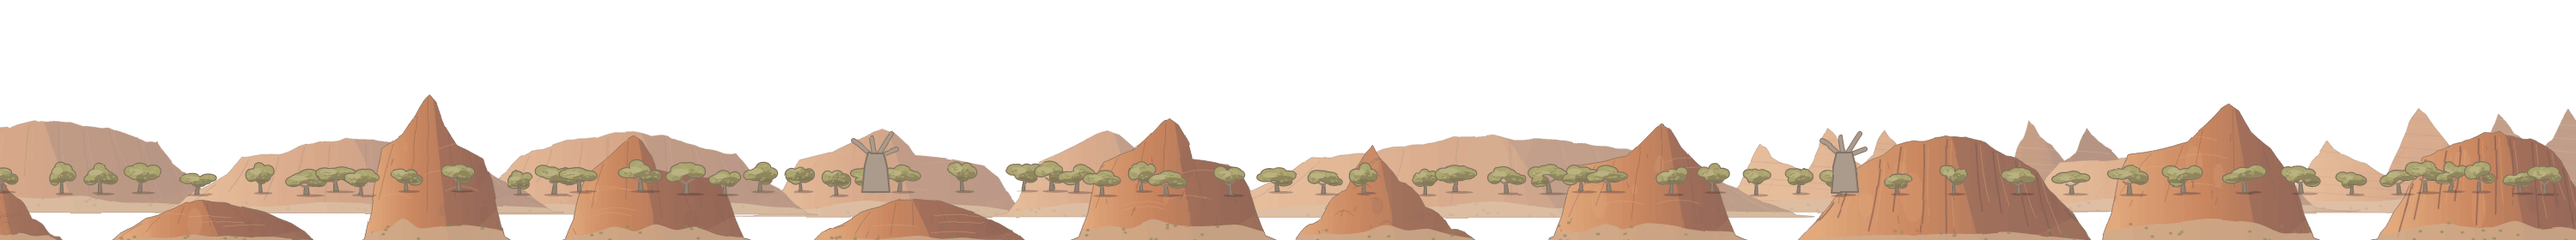
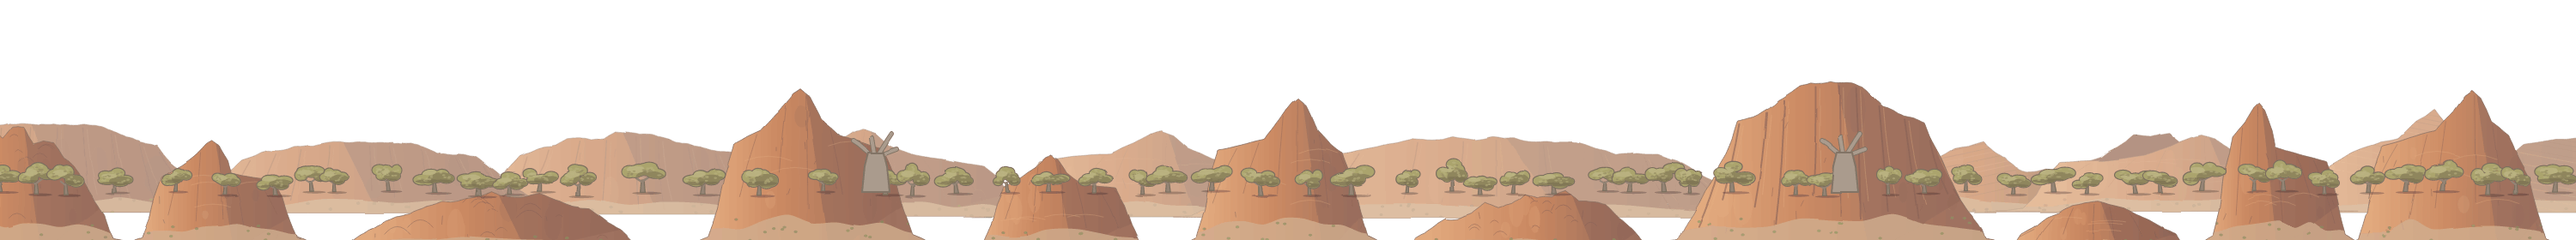
art(scenery): rounded, lopsided koppies and cuesta ridges instead of witch hats
Round 2 of the look review: Karoo koppies are rounded, boulder-strewn dolerite hills with broken,
block-studded skylines and an off-centre crown, lower and wider; strata ridges weather into
cuestas (a long gentle dip slope, a steep stepped scarp) instead of saw-tooth tents; the pointed
cone is now a 'spire' kind, at most one landmark per biome (only Kalahari uses it). Same texture
sizes. D-035.

diff --git a/tools/art/mountains.ts b/tools/art/mountains.ts
@@ -12,7 +12,8 @@
 import { el, g, polyD, r2, smoothD } from './svg';
 import { mix, nextId, shade, type Pen, type Pt, type Rnd } from './scenery';
 
-export type MountainKind = 'inselberg' | 'massif' | 'strata' | 'koppie' | 'boulders' | 'mesa';
+export type MountainKind =
+  'inselberg' | 'massif' | 'strata' | 'koppie' | 'boulders' | 'mesa' | 'spire';
 
 export interface RockColours {
   /** Mid tone of the rock in light. */
@@ -84,22 +85,53 @@ function profile(rnd: Rnd, m: Mountain): Pt[] {
       break;
     }
     case 'strata': {
-      // A saw-toothed ridge: several peaks, the slopes broken into steps.
-      let f = 0.04;
-      add(0.02, 0.15);
-      while (f < 0.92) {
-        const peakH = 0.6 + rnd() * 0.4;
-        add(f + 0.03, peakH * 0.7);
-        add(f + 0.06, peakH);
-        add(f + 0.09, peakH * 0.82 + jit(0.05));
-        f += 0.1 + rnd() * 0.08;
-        add(f, peakH * 0.55 + jit(0.08));
+      // D-035 round 2: tilted layers weather into cuestas: a long gentle dip slope rising to a
+      // crest, then a steep, stepped scarp; two or three of them, of different sizes.
+      let f = 0.03;
+      add(0.02, 0.1);
+      const dir = rnd() < 0.5 ? 1 : -1;
+      while (f < 0.9) {
+        const span = 0.28 + rnd() * 0.22;
+        const crestH = 0.55 + rnd() * 0.45;
+        const dip = span * 0.72;
+        const scarp = span - dip;
+        const a = dir > 0 ? dip : scarp;
+        const b = dir > 0 ? scarp : dip;
+        const low = 0.32 + rnd() * 0.15;
+        if (dir > 0) {
+          add(f + a * 0.5, low + (crestH - low) * 0.45 + jit(0.04));
+          add(f + a, crestH);
+          add(f + a + b * 0.35, crestH * 0.8);
+          add(f + a + b * 0.5, crestH * 0.72);
+          add(f + a + b * 0.85, low + 0.04);
+        } else {
+          add(f + a * 0.15, crestH * 0.72);
+          add(f + a * 0.5, crestH * 0.8);
+          add(f + a, crestH);
+          add(f + a + b * 0.5, low + (crestH - low) * 0.45 + jit(0.04));
+          add(f + a + b, low);
+        }
+        f += span;
       }
-      add(0.97, 0.18);
+      add(0.97, 0.12);
       break;
     }
     case 'koppie': {
-      // A pointed cone of piled boulders: knobbly flanks, a concave scree apron at the foot.
+      // D-035 round 2: a Karoo dolerite koppie: a rounded, lopsided hill strewn with boulders,
+      // its skyline broken by blocks; the crown sits off-centre.
+      const peak = 0.3 + rnd() * 0.4;
+      const n = 18;
+      for (let k = 1; k < n; k++) {
+        const f = k / n;
+        const u = f < peak ? (f / peak) * 0.5 : 0.5 + ((f - peak) / (1 - peak)) * 0.5;
+        const dome = Math.pow(Math.sin(u * Math.PI), 0.75);
+        const block = k % 3 === 0 ? 0.05 + rnd() * 0.05 : k % 3 === 1 ? -0.02 : 0.01;
+        add(f, Math.max(0.03, Math.min(1, dome * (0.88 + jit(0.1)) + block * dome)));
+      }
+      break;
+    }
+    case 'spire': {
+      // A single landmark spire per biome at most: a pointed cone of piled boulders.
       const peak = 0.42 + rnd() * 0.16;
       const n = 16;
       for (let k = 1; k < n; k++) {
@@ -154,9 +186,10 @@ const ROUGH: Readonly<Record<MountainKind, number>> = {
   inselberg: 0.06,
   massif: 0.2,
   strata: 0.32,
-  koppie: 0.24,
+  koppie: 0.12,
   boulders: 0.1,
   mesa: 0.07,
+  spire: 0.22,
 };
 
 /**
@@ -211,7 +244,8 @@ export function mountain(rnd: Rnd, m: Mountain, c: RockColours, pen: Pen, horizo
   const scree = hz(c.scree);
   const detail = 1 - m.haze; // texture opacity falls off with distance
   const pts = roughen(rnd, profile(rnd, m), ROUGH[m.kind], m.kind === 'mesa');
-  const smooth = m.kind === 'inselberg' || m.kind === 'boulders' ? 0.8 : 0.35;
+  const smooth =
+    m.kind === 'inselberg' || m.kind === 'boulders' ? 0.8 : m.kind === 'koppie' ? 0.65 : 0.35;
   const body = smoothD(pts, true, smooth);
   const id = nextId();
   const grad = nextId();
@@ -281,7 +315,7 @@ export function mountain(rnd: Rnd, m: Mountain, c: RockColours, pen: Pen, horizo
         ),
       );
     }
-  } else if (m.kind === 'koppie') {
+  } else if (m.kind === 'koppie' || m.kind === 'spire') {
     // Boulder outlines climbing the cone.
     for (let k = 0; k < 14; k++) {
       const by = base - h * (0.12 + rnd() * 0.75);
@@ -440,6 +474,8 @@ export function mountainRow(
     readonly height: readonly [number, number];
     readonly overlap: readonly [number, number];
     readonly haze: number;
+    /** D-035 round 2: one landmark spire at this fraction of the row (at most one per biome). */
+    readonly spireAt?: number;
   },
 ): Mountain[] {
   const total = kinds.reduce((s, k) => s + k.w, 0);
@@ -457,13 +493,34 @@ export function mountainRow(
     let kind = pick();
     if (kind === last && rnd() < 0.7) kind = pick(); // rarely two of a kind side by side
     last = kind;
-    const narrow = kind === 'koppie' || kind === 'boulders' || kind === 'inselberg';
-    const w = (o.width[0] + rnd() * (o.width[1] - o.width[0])) * (narrow ? 0.6 : 1);
+    const narrow = kind === 'boulders' || kind === 'inselberg' || kind === 'spire';
+    const w =
+      (o.width[0] + rnd() * (o.width[1] - o.width[0])) *
+      (narrow ? 0.6 : kind === 'koppie' ? 0.75 + rnd() * 0.3 : 1);
     const h =
       (o.height[0] + Math.pow(rnd(), 1.4) * (o.height[1] - o.height[0])) *
-      (kind === 'boulders' ? 0.45 : kind === 'inselberg' ? 1.15 : kind === 'mesa' ? 0.8 : 1);
+      (kind === 'boulders'
+        ? 0.45
+        : kind === 'inselberg'
+          ? 1.15
+          : kind === 'mesa'
+            ? 0.8
+            : kind === 'koppie'
+              ? 0.55 + rnd() * 0.3
+              : 1);
     out.push({ kind, x, base: o.base + rnd() * 8, w, h, haze: o.haze + (rnd() - 0.5) * 0.06 });
     x += w * (1 - (o.overlap[0] + rnd() * (o.overlap[1] - o.overlap[0])));
+  }
+  if (o.spireAt !== undefined) {
+    const w = o.width[0] * 0.75;
+    out.push({
+      kind: 'spire',
+      x: o.x0 + (o.x1 - o.x0) * o.spireAt - w / 2,
+      base: o.base + 4,
+      w,
+      h: o.height[1] * 0.95,
+      haze: o.haze,
+    });
   }
   // Paint the lower ones last within a row, so peaks never hide behind a smaller neighbour's top.
   return out.sort((a, b) => b.h - a.h);
